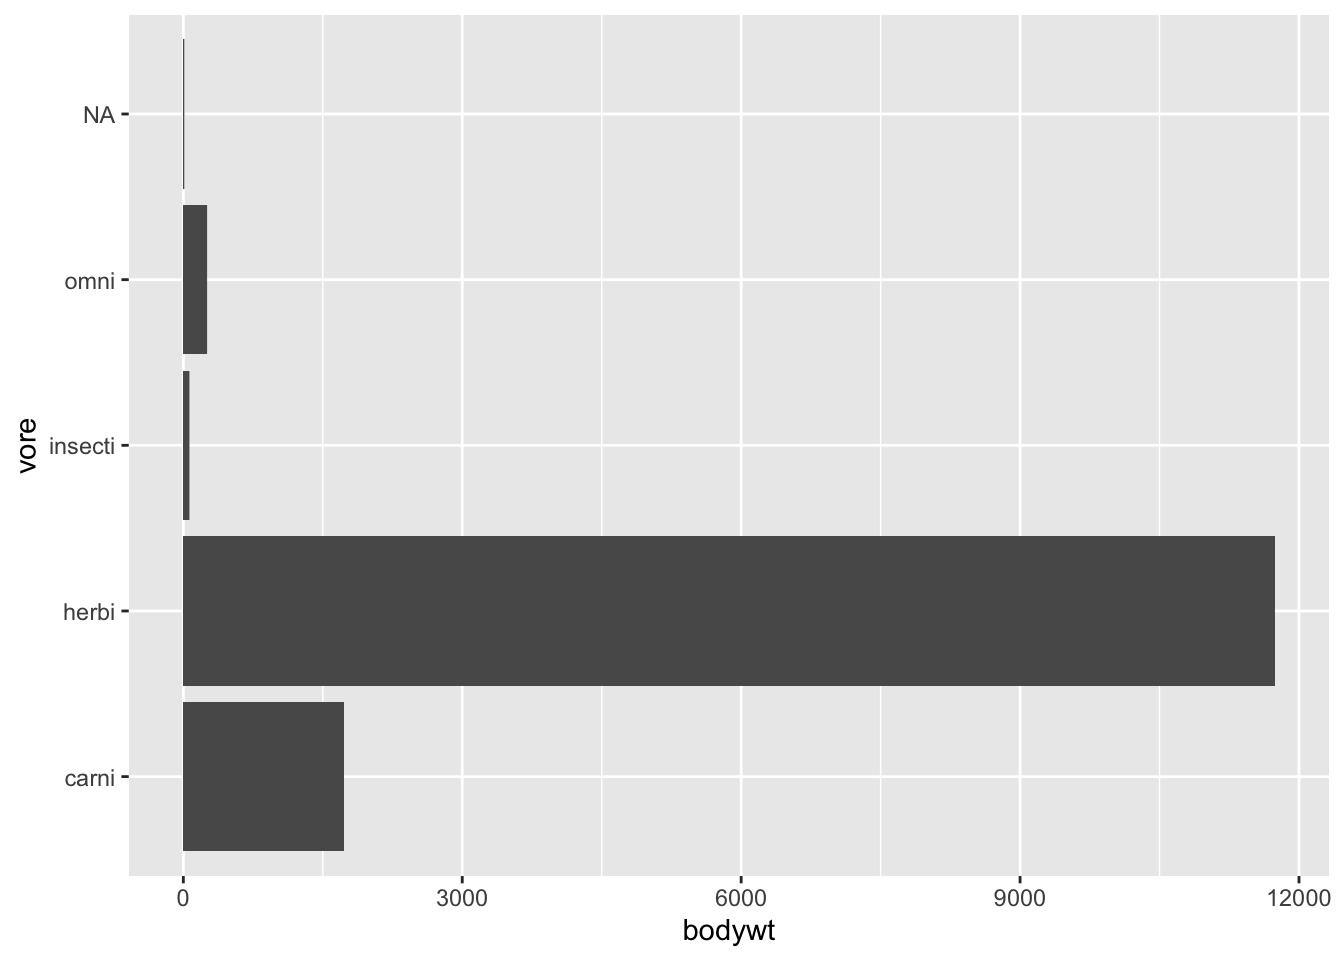
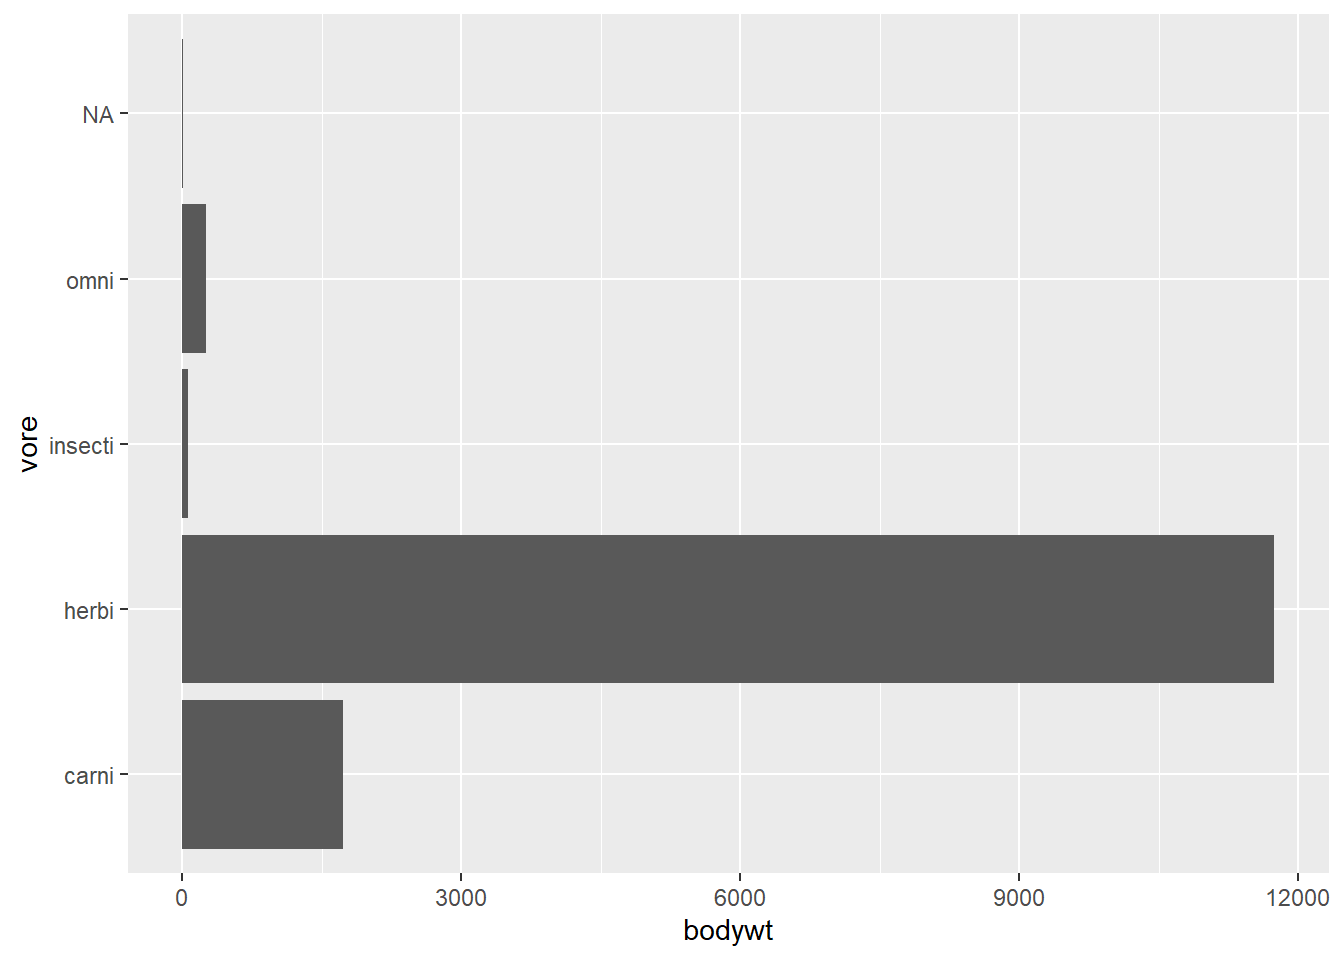
Ran code again

diff --git a/content/post/2022-10-22-blogpost-2/blogpost2.html b/content/post/2022-10-22-blogpost-2/blogpost2.html
@@ -31,12 +31,21 @@ featuredImage: ~
 <p>Currently, we have not looked for any big, obvious patterns in the data because the datasets are way too large and need to be cleaned to notice certain patterns, as well as to combine the datasets together.</p>
 <p>First Plot - Parks dataset: “Total number of parks in 10 counties in California” Filtered the data to include only CA counties and only counties that had at least one open park. Then, filtered the data to select the first 10 counties arbitrarily, since all of the counties was too much data to plot. Constructed a plot of the total number of parks in the first 10 California counties.</p>
 <pre class="r"><code>library(tidyverse)</code></pre>
+<pre><code>## Warning: package &#39;tidyverse&#39; was built under R version 4.1.3</code></pre>
 <pre><code>## -- Attaching packages --------------------------------------- tidyverse 1.3.2 --
-## v ggplot2 3.3.6     v purrr   0.3.4
-## v tibble  3.1.8     v dplyr   1.0.9
-## v tidyr   1.2.0     v stringr 1.4.1
-## v readr   2.1.2     v forcats 0.5.2
-## -- Conflicts ------------------------------------------ tidyverse_conflicts() --
+## v ggplot2 3.3.5     v purrr   0.3.4
+## v tibble  3.1.6     v dplyr   1.0.9
+## v tidyr   1.2.0     v stringr 1.4.0
+## v readr   2.1.2     v forcats 0.5.2</code></pre>
+<pre><code>## Warning: package &#39;ggplot2&#39; was built under R version 4.1.3</code></pre>
+<pre><code>## Warning: package &#39;tibble&#39; was built under R version 4.1.3</code></pre>
+<pre><code>## Warning: package &#39;tidyr&#39; was built under R version 4.1.3</code></pre>
+<pre><code>## Warning: package &#39;readr&#39; was built under R version 4.1.3</code></pre>
+<pre><code>## Warning: package &#39;purrr&#39; was built under R version 4.1.3</code></pre>
+<pre><code>## Warning: package &#39;dplyr&#39; was built under R version 4.1.3</code></pre>
+<pre><code>## Warning: package &#39;stringr&#39; was built under R version 4.1.3</code></pre>
+<pre><code>## Warning: package &#39;forcats&#39; was built under R version 4.1.3</code></pre>
+<pre><code>## -- Conflicts ------------------------------------------ tidyverse_conflicts() --
 ## x dplyr::filter() masks stats::filter()
 ## x dplyr::lag()    masks stats::lag()</code></pre>
 <pre class="r"><code>parks &lt;- read_csv(here::here(&quot;dataset&quot;, &quot;nanda_parks_tract_2018_01P.csv&quot;))</code></pre>
@@ -66,3 +75,6 @@ asthma_2018 %&gt;% filter(COUNTY == &quot;California&quot;) %&gt;%
   group_by(`AGE GROUP`) %&gt;% ggplot(aes(x = `AGE GROUP`, y = `NUMBER OF HOSPITALIZATIONS`, fill = `AGE GROUP`)) + geom_col() + labs(x = &quot;AGE GROUP&quot;, y = &quot;HOSPITALIZATIONS&quot;)</code></pre>
 <p><img src="/post/2022-10-22-blogpost-2/blogpost2_files/figure-html/asthma%20plot-1.png" width="672" /></p>
 <p>There is a problem which we think requires cleaning the data. For the variables age group and strata name, which consists of All ages, 0-17 years, 18+ years, 0-4 years, 5-17 years, 18-64 years, and 65+ years, it doesn’t show up this way in R. In R, the dashes (-) in these are replaced with &lt;96&gt; and are not readable through R.</p>
+<p>Third Plot - full parks dataset: Here, we summarized the data for each state (using the first two digits of tracts_fips10).</p>
+<pre class="r"><code>state_parks &lt;- parks %&gt;%
+  select()</code></pre>

diff --git a/content/post/2021-02-09-example/index.html b/content/post/2021-02-09-example/index.html
@@ -24,11 +24,20 @@ featuredImage: /images/a-static-image.png
 <div id="just-like-an-rmarkdown" class="section level2">
 <h2>Just like an RMarkdown</h2>
 <p>Show code …</p>
-<pre class="r"><code>library(tidyverse)
-msleep %&gt;%
+<pre class="r"><code>library(tidyverse)</code></pre>
+<pre><code>## Warning: package &#39;tidyverse&#39; was built under R version 4.1.3</code></pre>
+<pre><code>## Warning: package &#39;ggplot2&#39; was built under R version 4.1.3</code></pre>
+<pre><code>## Warning: package &#39;tibble&#39; was built under R version 4.1.3</code></pre>
+<pre><code>## Warning: package &#39;tidyr&#39; was built under R version 4.1.3</code></pre>
+<pre><code>## Warning: package &#39;readr&#39; was built under R version 4.1.3</code></pre>
+<pre><code>## Warning: package &#39;purrr&#39; was built under R version 4.1.3</code></pre>
+<pre><code>## Warning: package &#39;dplyr&#39; was built under R version 4.1.3</code></pre>
+<pre><code>## Warning: package &#39;stringr&#39; was built under R version 4.1.3</code></pre>
+<pre><code>## Warning: package &#39;forcats&#39; was built under R version 4.1.3</code></pre>
+<pre class="r"><code>msleep %&gt;%
   group_by(vore) %&gt;%
   summarize(`average body weight` = mean(bodywt))</code></pre>
-<pre><code>## # A tibble: 5 × 2
+<pre><code>## # A tibble: 5 x 2
 ##   vore    `average body weight`
 ##   &lt;chr&gt;                   &lt;dbl&gt;
 ## 1 carni                  90.8  
